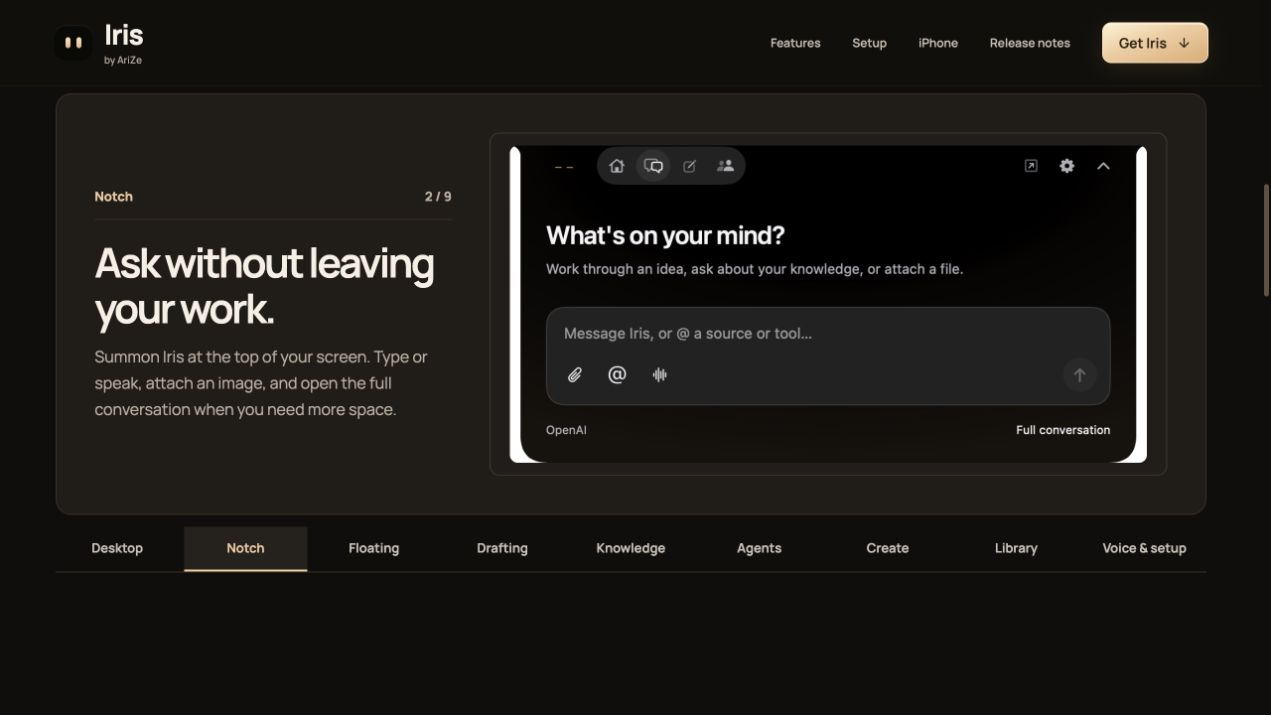
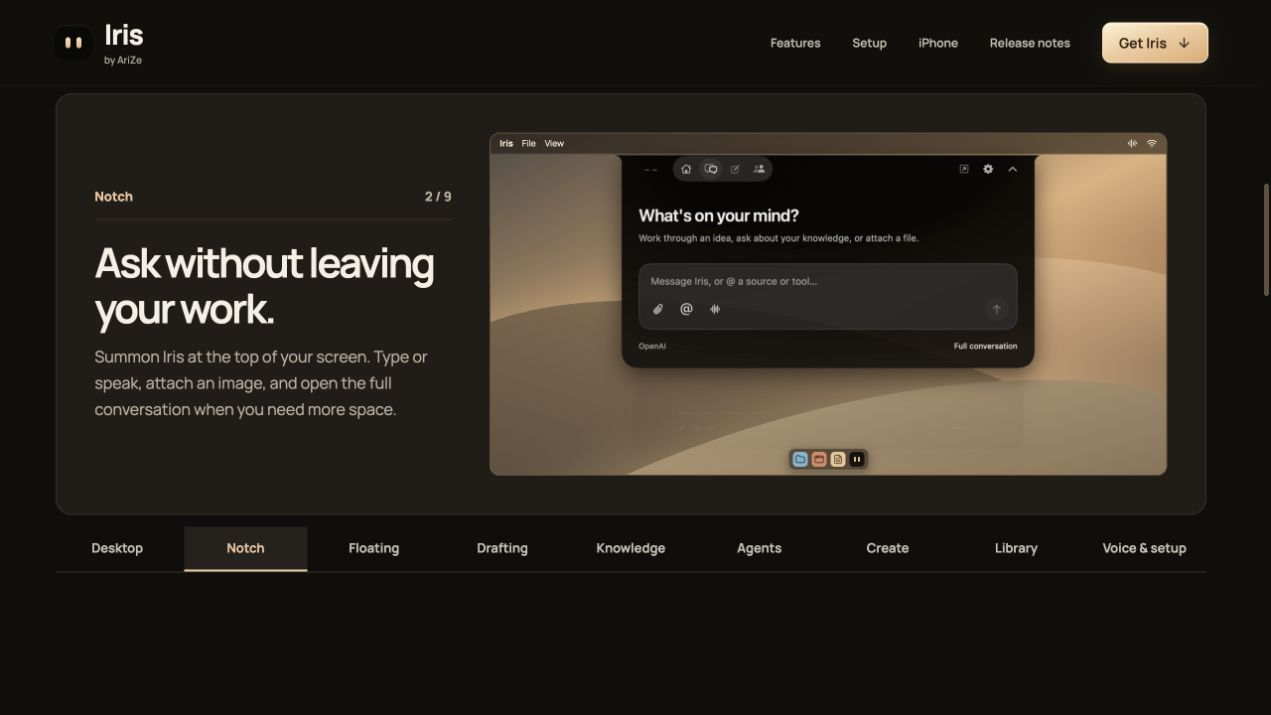
Sync current Iris website source

Changed region(s): [[0.3682, 0.1846, 0.9205, 0.6769]]

diff --git a/app/product-tour.tsx b/app/product-tour.tsx
@@ -1,15 +1,16 @@
 'use client';
 
+import { AppWindow, AudioLines, FileText, Folder, Wifi } from 'lucide-react';
 import { useEffect, useRef, useState } from 'react';
 
 const scenes = [
-  { label: 'Desktop', title: 'Make room for a longer conversation.', text: 'Ask a question, attach a file, or type @ to bring a source or tool into chat. Pick up previous conversations from the sidebar.', image: '/images/tour/desktop.jpg', alt: 'Iris desktop chat and composer' },
-  { label: 'Notch', title: 'Ask without leaving your work.', text: 'Summon Iris at the top of your screen. Type or speak, attach an image, and open the full conversation when you need more space.', image: '/images/tour/notch.jpg', alt: 'Expanded Iris notch with text, microphone and attachment controls' },
-  { label: 'Floating', title: 'Get help right where you’re looking.', text: 'Keep Iris beside the app you’re using. With screen access and a supported model, Iris can point to a control, label a diagram, or sketch an explanation.', image: '/images/tour/floating.jpg', alt: 'Floating Iris with the guide-in-an-app control', portrait: true },
+  { label: 'Desktop', title: 'Make room for a longer conversation.', text: 'Ask a question, attach a file, or type @ to bring a source or tool into chat. Pick up previous conversations from the sidebar.', image: '/images/tour/desktop.webp', alt: 'Iris desktop chat and composer' },
+  { label: 'Notch', title: 'Ask without leaving your work.', text: 'Summon Iris at the top of your screen. Type or speak, attach an image, and open the full conversation when you need more space.', image: '/images/tour/notch.webp', placement: 'notch', alt: 'Expanded Iris notch with text, microphone and attachment controls' },
+  { label: 'Floating', title: 'Get help right where you’re looking.', text: 'Keep Iris beside the app you’re using. With screen access and a supported model, Iris can point to a control, label a diagram, or sketch an explanation.', image: '/images/tour/floating.webp', alt: 'Floating Iris with the guide-in-an-app control', placement: 'floating' },
   { label: 'Drafting', title: 'Write in the field you’re already in.', text: 'Double-tap your drafting shortcut to rewrite selected text or start a reply from the context you share. Edit the result before sending.', image: '/images/tour/drafting.jpg', alt: 'The Iris onboarding lesson for Double Tap drafting in TextEdit' },
   { label: 'Knowledge', title: 'Give answers more context.', text: 'Bring in files, notes, and selected connections. Use @ to reference a source in chat, or scan enabled sources to save useful details to memory.', image: '/images/tour/connections.jpg', alt: 'Iris Knowledge showing Scan now and the Connections section' },
   { label: 'Agents', title: 'Hand off the longer jobs.', text: 'Start a specialist agent for a larger task, then follow its progress while you keep using Iris. Give each agent a specific brief.', image: '/images/tour/agents.jpg', alt: 'Iris Agents showing several agents and an example task' },
-  { label: 'Create', title: 'Turn a prompt into something you can open.', text: 'Choose a creation tool with @ in chat. Ask for a document, website, or image and open the resulting file from the conversation.', image: '/images/tour/desktop.jpg', alt: 'Iris chat with Website and Document creation tools' },
+  { label: 'Create', title: 'Turn a prompt into something you can open.', text: 'Choose a creation tool with @ in chat. Ask for a document, website, or image and open the resulting file from the conversation.', image: '/images/tour/desktop.webp', alt: 'Iris chat with Website and Document creation tools' },
   { label: 'Library', title: 'Find what you made again.', text: 'Reopen generated files, projects, and study material from the Library. Bring a saved item back into chat to keep working on it.', image: '/images/tour/library.jpg', alt: 'Iris Library with Files, Study, Projects and Drafts categories' },
   { label: 'Voice & setup', title: 'Choose how Iris listens and answers.', text: 'Set a voice and keyboard shortcuts, then choose OpenAI, Gemini, or a local model through LM Studio. Manage screen and folder access in Settings.', image: '/images/tour/voice.jpg', alt: 'Iris onboarding with Gemini, VoiceBox, and macOS voice options' },
 ];
@@ -78,8 +79,17 @@ export function ProductTour({ animated }: { animated: boolean }) {
             <p>{scene.text}</p>
           </div>
           <div className="tour-media">
+            <div className="scene-wallpaper" aria-hidden="true"><i/><i/><i/></div>
+            <div className="tour-menu" aria-hidden="true">
+              <span><b>Iris</b><span>File</span><span>View</span></span>
+              <span><AudioLines size={10}/><Wifi size={11}/></span>
+            </div>
+            <div className="tour-dock" aria-hidden="true">
+              <span><Folder/></span><span><AppWindow/></span><span><FileText/></span>
+              <span className="tour-dock-iris"><i/><i/></span>
+            </div>
             {scenes.map((item, index) =>
-              <div key={item.label} className={'tour-image' + (index === active ? ' is-current' : '') + (item.portrait ? ' is-portrait' : '')} aria-hidden={index !== active}>
+              <div key={item.label} className={'tour-image' + (index === active ? ' is-current' : '') + (item.placement ? ' tour-image--' + item.placement : '')} aria-hidden={index !== active}>
                 <img src={item.image} alt={item.alt} loading={index ? 'lazy' : 'eager'} decoding="async"/>
               </div>
             )}

diff --git a/app/home.css b/app/home.css
@@ -41,13 +41,26 @@
 .tour-label span:last-child{color:var(--muted);font-variant-numeric:tabular-nums}
 .iris-product .tour-copy h3{font-size:clamp(26px,3.2vw,47px);line-height:1.12;letter-spacing:-.055em;margin:0 0 13px}
 .tour-copy p{font-size:clamp(13px,1.3vw,16px)}
-.tour-media{height:clamp(225px,48svh,450px);position:relative;border-radius:10px;overflow:hidden;background:#201d1a;border:1px solid #41372e}
-.tour-image{position:absolute;inset:0;display:grid;place-items:center;padding:12px;opacity:0;pointer-events:none}
+.tour-media{height:clamp(225px,48svh,450px);position:relative;isolation:isolate;border-radius:10px;overflow:hidden;border:1px solid #69513a}
+.tour-media .scene-wallpaper i{height:115%}
+.tour-menu{position:absolute;inset:0 0 auto;display:flex;justify-content:space-between;align-items:center;height:21px;padding-inline:9px;background:#2018119c;border-bottom:1px solid #ffe6c226;color:#fff0da;font-size:9px}
+.tour-menu>span{display:flex;align-items:center;gap:9px}
+.tour-dock{position:absolute;z-index:2;bottom:4px;left:50%;translate:-50% 0;display:flex;gap:4px;padding:3px 4px;border:1px solid #fff0d349;border-radius:7px;background:#38291da8;box-shadow:0 3px 9px #21190f66}
+.tour-dock>span{display:grid;place-items:center;width:15px;height:15px;border-radius:4px;background:#eac897;color:#513822}
+.tour-dock>span:first-child{background:#7eb4cf;color:#1b394b}
+.tour-dock>span:nth-child(2){background:#d98b6a;color:#502411}
+.tour-dock svg{width:10px;height:10px}
+.tour-dock>.tour-dock-iris{display:flex;justify-content:center;gap:2px;background:#17120e}
+.tour-dock-iris i{width:2px;height:5px;border-radius:3px;background:#f0bd8b}
+.tour-image{position:absolute;inset:21px 0 25px;display:grid;grid-template:minmax(0,1fr)/minmax(0,1fr);place-items:center;padding:10px clamp(10px,2vw,24px);opacity:0;pointer-events:none}
 [data-motion=on] .tour-image{transform:translateY(12px) scale(.982);transition:opacity .35s ease,transform .45s cubic-bezier(.22,.68,.24,1)}
 .tour-image.is-current{opacity:1;z-index:1}
 [data-motion=on] .tour-image.is-current{transform:none}
-.tour-image img{display:block;max-width:100%;max-height:100%;object-fit:contain;min-height:0;border-radius:8px}
-.tour-image.is-portrait img{height:100%;width:auto}
+.tour-image img{display:block;max-width:100%;max-height:100%;object-fit:contain;border-radius:6px;box-shadow:0 10px 26px #17100cb0}
+.tour-image--notch{align-items:start;padding-top:0}
+.tour-image--notch img{max-width:68%}
+.tour-image--floating img{justify-self:end;margin-right:10%;height:96%;width:auto}
+.tour-image--notch img,.tour-image--floating img{border-radius:0;box-shadow:none;filter:drop-shadow(0 7px 12px #17100cb0)}
 .tour-nav{display:grid;grid-template-columns:repeat(9,minmax(0,1fr));gap:5px;border-bottom:1px solid var(--rule)}
 .tour-nav button{min-height:45px;background:transparent;color:#c9c1b6;border:0;border-bottom:2px solid transparent;padding:5px 2px;font:inherit;font-size:clamp(10px,1.15vw,13px);font-weight:650;cursor:pointer}
 .tour-nav button:hover{color:#fff2df;background:#24211d}

diff --git a/tools/sync-source.py b/tools/sync-source.py
@@ -159,7 +159,7 @@ After any published website source change, sync the tested source to this reposi
     # Galleries are curated in the public repositories and carry forward on source sync.
     galleries = {
         'apps': [('assistant', 'Desktop chat'), ('notch', 'Notch chat'), ('knowledge', 'Knowledge library')],
-        'website': [('homepage', 'Homepage'), ('downloads', 'Downloads'), ('release-notes', 'Release notes')],
+        'website': [('homepage', 'Homepage'), ('feature-tour', 'Interactive feature tour'), ('downloads', 'Downloads'), ('release-notes', 'Release notes')],
     }
     screenshots = []
     for name, caption in galleries[kind]:

diff --git a/README.md b/README.md
@@ -8,19 +8,19 @@ The official Iris website: homepage, device-aware downloads, separate Mac/Window
 
 ### Homepage
 
-![Iris homepage with the floating avatar and warm dark theme](docs/screenshots/homepage.jpg)
+![Homepage](docs/screenshots/homepage.jpg)
 
 ### Interactive feature tour
 
-![The homepage feature tour showing Iris in the Mac notch](docs/screenshots/feature-tour.jpg)
+![Interactive feature tour](docs/screenshots/feature-tour.jpg)
 
 ### Downloads
 
-![Iris download page with macOS and Windows options](docs/screenshots/downloads.jpg)
+![Downloads](docs/screenshots/downloads.jpg)
 
 ### Release notes
 
-![Iris release notes with macOS and Windows tabs](docs/screenshots/release-notes.jpg)
+![Release notes](docs/screenshots/release-notes.jpg)
 
 ## Development
 
